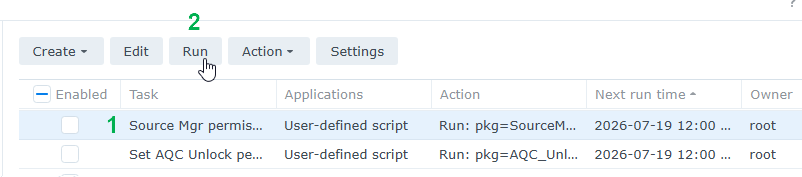
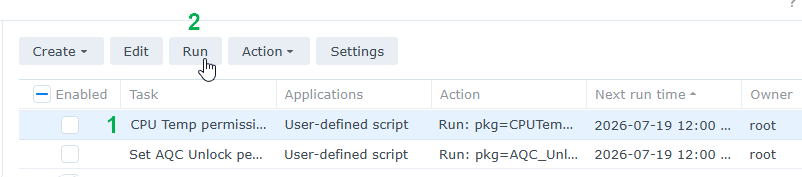
v1.0.4

Changed region(s): [[0.1559, 0.678, 0.717, 0.7627]]

diff --git a/set_package_permissions.md b/set_package_permissions.md
@@ -9,11 +9,10 @@ sudo -i
 pkg=CPUTemp
 file=/etc/sudoers.d/CPUTemp
 script=/var/packages/CPUTemp/target/bin/cpu_temp_api.sh
-echo "$pkg ALL=(root) NOPASSWD: $script run" > "$file"
-echo "$pkg ALL=(root) NOPASSWD: $script getlog" >> "$file"
-echo "$pkg ALL=(root) NOPASSWD: $script clearlog" >> "$file"
-echo "$pkg ALL=(root) NOPASSWD: $script getsettings" >> "$file"
-echo "$pkg ALL=(root) NOPASSWD: $script setsettings *" >> "$file"
+echo "$pkg ALL=(root) NOPASSWD: $script setsettings *" > "$file"
+for action in run getlog clearlog getsettings; do
+    echo "$pkg ALL=(root) NOPASSWD: $script $action" >> "$file"
+done
 chmod 0440 "$file"
 cat "$file"
 ```
@@ -31,11 +30,10 @@ cat "$file"
     pkg=CPUTemp
     file=/etc/sudoers.d/CPUTemp
     script=/var/packages/CPUTemp/target/bin/cpu_temp_api.sh
-    echo "$pkg ALL=(root) NOPASSWD: $script run" > "$file"
-    echo "$pkg ALL=(root) NOPASSWD: $script getlog" >> "$file"
-    echo "$pkg ALL=(root) NOPASSWD: $script clearlog" >> "$file"
-    echo "$pkg ALL=(root) NOPASSWD: $script getsettings" >> "$file"
-    echo "$pkg ALL=(root) NOPASSWD: $script "setsettings *" >> "$file"
+    echo "$pkg ALL=(root) NOPASSWD: $script setsettings *" > "$file"
+    for action in run getlog clearlog getsettings; do
+        echo "$pkg ALL=(root) NOPASSWD: $script $action" >> "$file"
+    done
     chmod 0440 "$file"
     cat "$file"
     ```

diff --git a/README.md b/README.md
@@ -38,4 +38,30 @@ There are 2 ways to install the package:
 <br>
 
 <!--- <p align="center">Description of image 2 goes here</p> --->
-<p align="center"><kbd><img src="/images/IMAGE_NAME.png"></kbd></p>
+<p align="center"><kbd><img src="/images/ds1821plus.png"></kbd></p>
+
+<br>
+
+<!--- <p align="center">Description of image 2 goes here</p> --->
+<p align="center"><kbd><img src="/images/settings.png"></kbd></p>
+
+<br>
+
+<!--- <p align="center">Description of image 2 goes here</p> --->
+<p align="center"><kbd><img src="/images/ds925plus.png"></kbd></p>
+
+<br>
+
+<!--- <p align="center">Description of image 2 goes here</p> --->
+<p align="center"><kbd><img src="/images/ds720plus.png"></kbd></p>
+
+<br>
+
+<!--- <p align="center">Description of image 2 goes here</p> --->
+<p align="center"><kbd><img src="/images/ds218.png"></kbd></p>
+
+<br>
+
+<!--- <p align="center">Description of image 2 goes here</p> --->
+<p align="center"><kbd><img src="/images/ds1812plus.png"></kbd></p>
+

diff --git a/src/NOTES.md b/src/NOTES.md
@@ -1,4 +1,4 @@
-# CPUTemp package - build notes
+# CPUTemp package - build notes 
 
 ## What's solid
 - `package.json`, `config`, `api.cgi` structure, `postinst` sudoers pattern —
